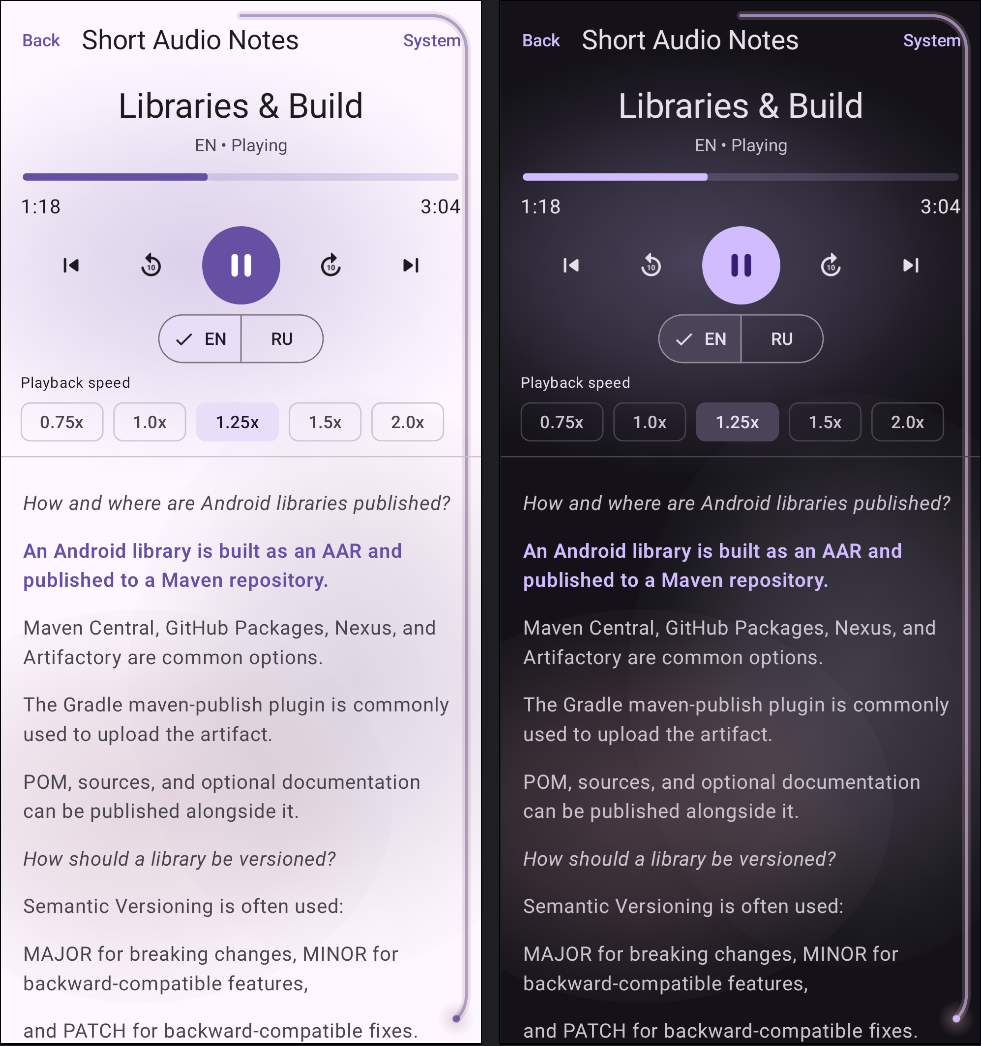
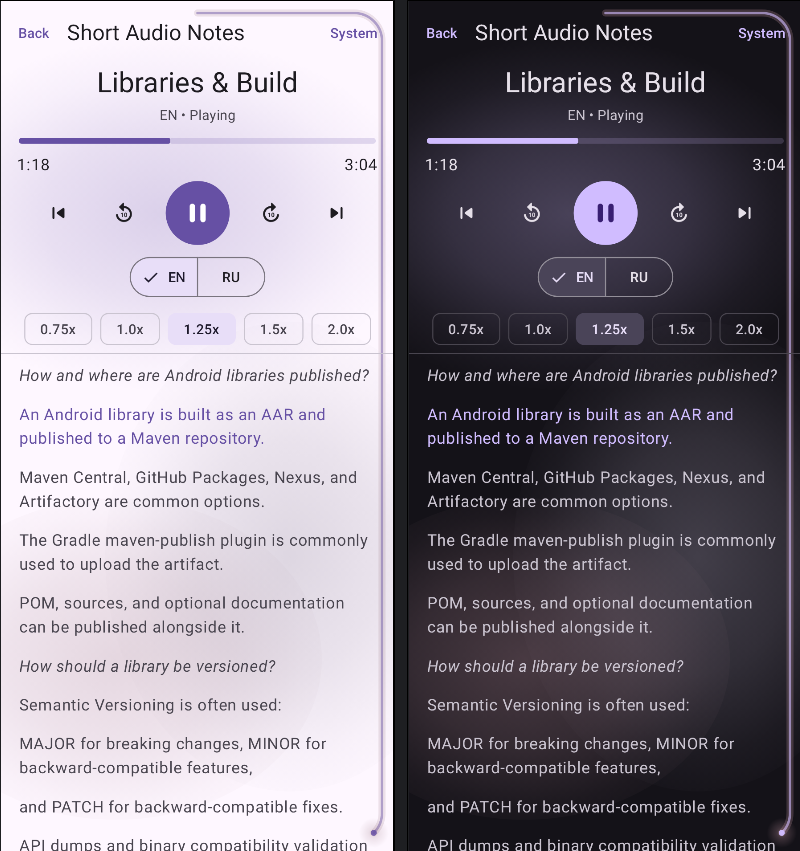
feat: adapt player layout for landscape

diff --git a/app/src/main/java/com/yavin/androidhandbookaudio/ui/player/PlayerScreen.kt b/app/src/main/java/com/yavin/androidhandbookaudio/ui/player/PlayerScreen.kt
@@ -14,6 +14,7 @@ import androidx.compose.foundation.layout.Arrangement
 import androidx.compose.foundation.layout.Box
 import androidx.compose.foundation.layout.Column
 import androidx.compose.foundation.layout.Row
+import androidx.compose.foundation.layout.fillMaxHeight
 import androidx.compose.foundation.layout.fillMaxSize
 import androidx.compose.foundation.layout.fillMaxWidth
 import androidx.compose.foundation.layout.height
@@ -40,6 +41,7 @@ import androidx.compose.material3.Text
 import androidx.compose.material3.TextButton
 import androidx.compose.material3.TopAppBar
 import androidx.compose.material3.TopAppBarDefaults
+import androidx.compose.material3.VerticalDivider
 import androidx.compose.runtime.Composable
 import androidx.compose.runtime.LaunchedEffect
 import androidx.compose.runtime.getValue
@@ -51,6 +53,7 @@ import androidx.compose.ui.Alignment
 import androidx.compose.ui.Modifier
 import androidx.compose.ui.geometry.Offset
 import androidx.compose.ui.graphics.Color
+import androidx.compose.ui.platform.LocalConfiguration
 import androidx.compose.ui.res.painterResource
 import androidx.compose.ui.text.AnnotatedString
 import androidx.compose.ui.text.SpanStyle
@@ -199,20 +202,80 @@ private fun ActivePlayer(
     }
 
     val transcript = state.transcript
-    Column(
-        modifier = modifier
-            .fillMaxSize(),
-    ) {
-        if (transcript is TranscriptUiState.Content) {
+    val onSeekingChange: (Boolean, Float) -> Unit = { seeking, position ->
+        isSeeking = seeking
+        sliderPosition = position
+        onSeekPreviewChange(position)
+    }
+    val isLandscape = LocalConfiguration.current.orientation == Configuration.ORIENTATION_LANDSCAPE
+
+    when {
+        transcript is TranscriptUiState.Content && isLandscape -> {
+            Row(
+                modifier = modifier.fillMaxSize(),
+            ) {
+                PlayerControls(
+                    state = state,
+                    isSeeking = isSeeking,
+                    sliderPosition = sliderPosition,
+                    onSeekingChange = onSeekingChange,
+                    onPlayOrPause = onPlayOrPause,
+                    onSeekTo = onSeekTo,
+                    onSeekBackward = onSeekBackward,
+                    onSeekForward = onSeekForward,
+                    onPrevious = onPrevious,
+                    onNext = onNext,
+                    onSpeedSelected = onSpeedSelected,
+                    onLanguageSelected = onLanguageSelected,
+                    modifier = Modifier
+                        .weight(1f)
+                        .fillMaxHeight(),
+                )
+                VerticalDivider()
+                TranscriptPanel(
+                    state = transcript,
+                    onSegmentClick = onTranscriptSegmentClick,
+                    modifier = Modifier
+                        .weight(1f)
+                        .fillMaxHeight(),
+                )
+            }
+        }
+
+        transcript is TranscriptUiState.Content -> {
+            Column(
+                modifier = modifier.fillMaxSize(),
+            ) {
+                PlayerControls(
+                    state = state,
+                    isSeeking = isSeeking,
+                    sliderPosition = sliderPosition,
+                    onSeekingChange = onSeekingChange,
+                    onPlayOrPause = onPlayOrPause,
+                    onSeekTo = onSeekTo,
+                    onSeekBackward = onSeekBackward,
+                    onSeekForward = onSeekForward,
+                    onPrevious = onPrevious,
+                    onNext = onNext,
+                    onSpeedSelected = onSpeedSelected,
+                    onLanguageSelected = onLanguageSelected,
+                    modifier = Modifier.fillMaxWidth(),
+                )
+                HorizontalDivider()
+                TranscriptPanel(
+                    state = transcript,
+                    onSegmentClick = onTranscriptSegmentClick,
+                    modifier = Modifier.weight(1f),
+                )
+            }
+        }
+
+        else -> {
             PlayerControls(
                 state = state,
                 isSeeking = isSeeking,
                 sliderPosition = sliderPosition,
-                onSeekingChange = { seeking, position ->
-                    isSeeking = seeking
-                    sliderPosition = position
-                    onSeekPreviewChange(position)
-                },
+                onSeekingChange = onSeekingChange,
                 onPlayOrPause = onPlayOrPause,
                 onSeekTo = onSeekTo,
                 onSeekBackward = onSeekBackward,
@@ -221,33 +284,7 @@ private fun ActivePlayer(
                 onNext = onNext,
                 onSpeedSelected = onSpeedSelected,
                 onLanguageSelected = onLanguageSelected,
-                modifier = Modifier.fillMaxWidth(),
-            )
-            HorizontalDivider()
-            TranscriptPanel(
-                state = transcript,
-                onSegmentClick = onTranscriptSegmentClick,
-                modifier = Modifier.weight(1f),
-            )
-        } else {
-            PlayerControls(
-                state = state,
-                isSeeking = isSeeking,
-                sliderPosition = sliderPosition,
-                onSeekingChange = { seeking, position ->
-                    isSeeking = seeking
-                    sliderPosition = position
-                    onSeekPreviewChange(position)
-                },
-                onPlayOrPause = onPlayOrPause,
-                onSeekTo = onSeekTo,
-                onSeekBackward = onSeekBackward,
-                onSeekForward = onSeekForward,
-                onPrevious = onPrevious,
-                onNext = onNext,
-                onSpeedSelected = onSpeedSelected,
-                onLanguageSelected = onLanguageSelected,
-                modifier = Modifier.fillMaxSize(),
+                modifier = modifier.fillMaxSize(),
             )
         }
     }
@@ -459,7 +496,7 @@ private fun TranscriptPanel(
         modifier = modifier.fillMaxWidth(),
         contentPadding = androidx.compose.foundation.layout.PaddingValues(
             horizontal = 18.dp,
-            vertical = 24.dp,
+            vertical = 8.dp,
         ),
         verticalArrangement = Arrangement.spacedBy(12.dp),
     ) {
@@ -588,6 +625,20 @@ private fun PlayerControlsLoadingPreview() {
     showBackground = true,
     widthDp = 393,
     heightDp = 852,
+    uiMode = Configuration.UI_MODE_NIGHT_YES,
+)
+@Preview(
+    name = "Player with transcript — landscape light",
+    showBackground = true,
+    widthDp = 852,
+    heightDp = 393,
+    uiMode = Configuration.UI_MODE_NIGHT_NO,
+)
+@Preview(
+    name = "Player with transcript — landscape dark",
+    showBackground = true,
+    widthDp = 852,
+    heightDp = 393,
     uiMode = Configuration.UI_MODE_NIGHT_YES,
 )
 @Composable
